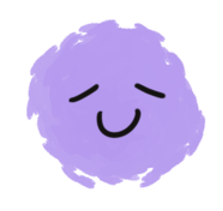
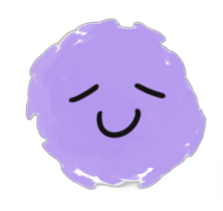
.

diff --git a/diary/templates/diary/detail.html b/diary/templates/diary/detail.html
@@ -49,7 +49,7 @@
 
     <div id="stickers">
       {% for sticker in diarySticker %}
-      <img src="{{sticker.url}}" width="{{sticker.width}}" height="{{sticker.height}}" />
+      <img src="{{sticker.url}}" width="{{sticker.width}}" height="{{sticker.height}}" crossorigin="anonymous" />
       {% endfor %}
     </div>
     <div id="sticker_x">{% for sticker in diarySticker %}<input value="{{sticker.imageX}}">{% endfor %}</div>

diff --git a/diary/static/js/detail_script.js b/diary/static/js/detail_script.js
@@ -115,6 +115,7 @@ if (sticker_num > 0) {
 
     var sti = stickers.item(i);
 
+
     // var x = parseInt(sticker_x.item(i).value) + (sti.width / 2);
     // var y = parseInt(sticker_y.item(i).value) + (sti.height / 2);
 
